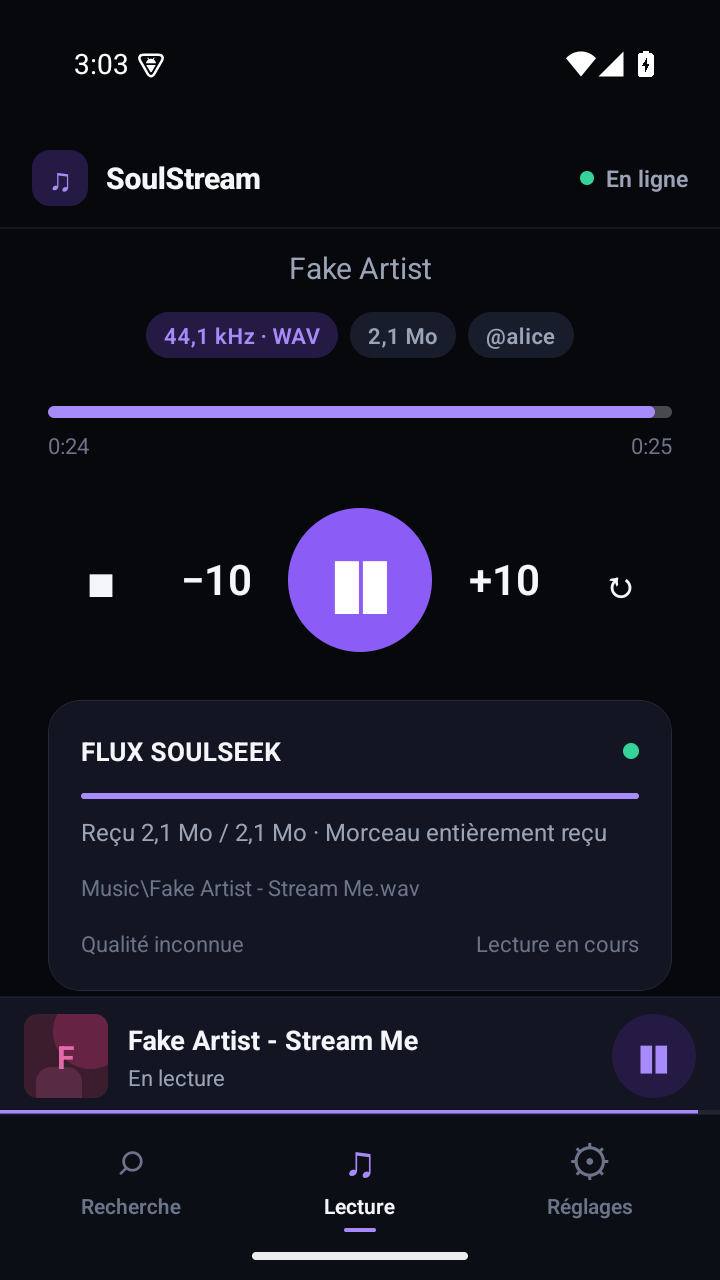
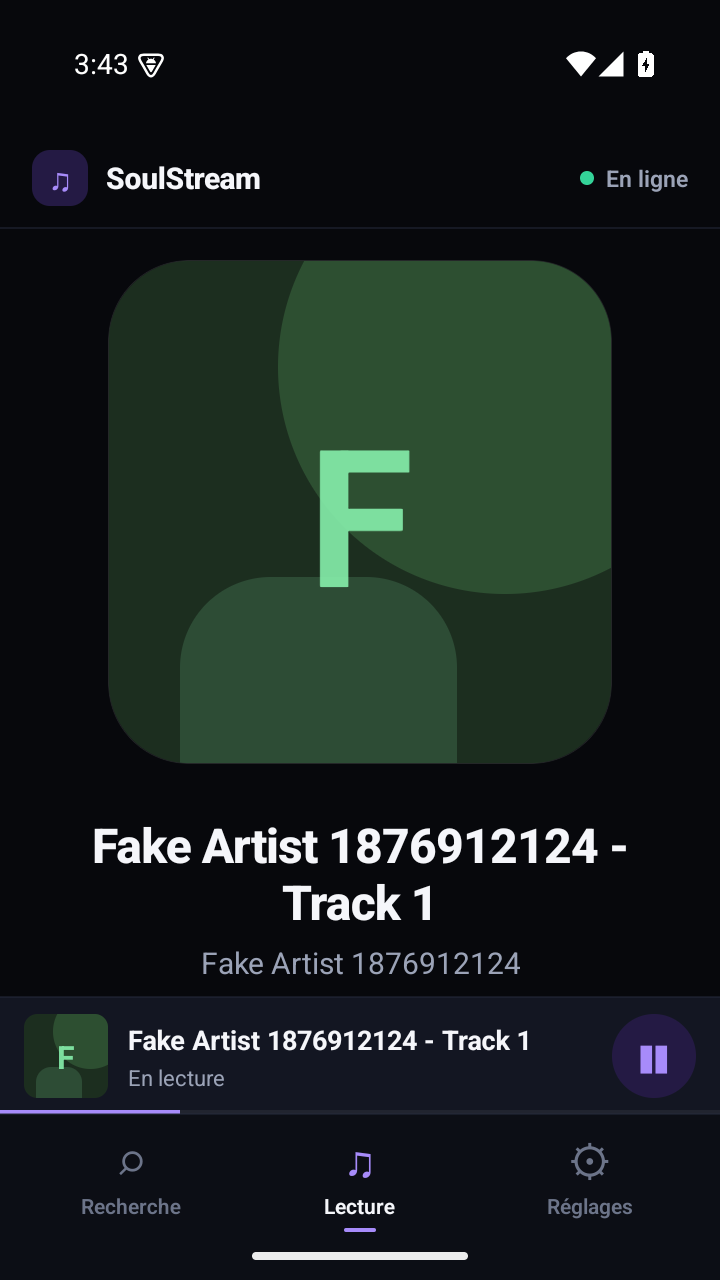
docs: MP3 screenshots and repository link

diff --git a/README.md b/README.md
@@ -1,7 +1,8 @@
 # SoulStream
 
 Application **React Native (iOS / Android)** de streaming musical qui utilise le
-réseau pair-à-pair **Soulseek**. Recherchez un morceau, choisissez une source,
+réseau pair-à-pair **Soulseek**. Dépôt :
+[Thibaut-Fontaine/soulseek-streaming](https://github.com/Thibaut-Fontaine/soulseek-streaming). Recherchez un morceau, choisissez une source,
 et écoutez-le pendant que les octets arrivent du pair — sans serveur central de
 streaming.
 
